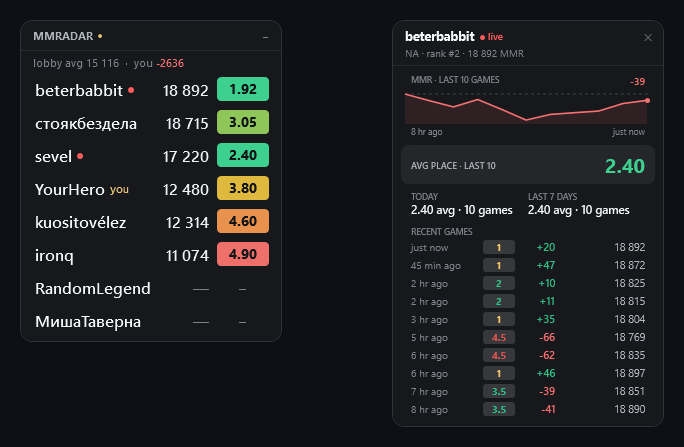
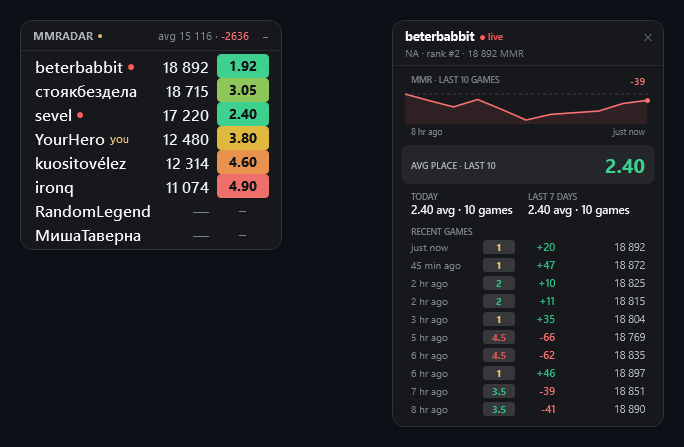
BGRank-density layout: 24px rows, lobby average moved into the header

diff --git a/src/MMRadar/UI/LobbyPanel.xaml b/src/MMRadar/UI/LobbyPanel.xaml
@@ -16,7 +16,7 @@
             </ResourceDictionary.MergedDictionaries>
             <sys:Double x:Key="RowFontSize">16</sys:Double>
             <sys:Double x:Key="ChipFontSize">13.5</sys:Double>
-            <sys:Double x:Key="RowHeight">33</sys:Double>
+            <sys:Double x:Key="RowHeight">24</sys:Double>
             <sys:Double x:Key="NameMaxWidth">150</sys:Double>
             <sys:Double x:Key="BadgeFontSize">10.5</sys:Double>
             <sys:Double x:Key="MarkFontSize">12</sys:Double>
@@ -65,6 +65,12 @@
                             Style="{StaticResource IconButton}"
                             Content="–" Click="CollapseButton_Click"
                             ToolTip="Collapse into a small pill"/>
+                    <!-- lobby average + your delta live in the header to save a row -->
+                    <TextBlock x:Name="HeaderContextText" DockPanel.Dock="Right"
+                               FontSize="{DynamicResource CtxFontSize}"
+                               Foreground="{DynamicResource TextMuted}"
+                               VerticalAlignment="Center" Margin="0,0,8,0"
+                               Visibility="Collapsed"/>
                 </DockPanel>
             </Border>
 
@@ -77,14 +83,7 @@
                            Text="Waiting for lobby…"
                            Visibility="Collapsed"/>
 
-                <!-- One-line lobby context: average strength and your delta to it -->
-                <TextBlock x:Name="LobbyContextText"
-                           Margin="12,5,12,0"
-                           FontSize="{DynamicResource CtxFontSize}"
-                           Foreground="{DynamicResource TextMuted}"
-                           Visibility="Collapsed"/>
-
-                <ItemsControl x:Name="RowsControl" Margin="0,4" Grid.IsSharedSizeScope="True">
+                <ItemsControl x:Name="RowsControl" Margin="0,3" Grid.IsSharedSizeScope="True">
                     <ItemsControl.ItemTemplate>
                         <DataTemplate>
                             <Button Style="{StaticResource RowButton}"

diff --git a/src/MMRadar/UI/LobbyPanel.xaml.cs b/src/MMRadar/UI/LobbyPanel.xaml.cs
@@ -55,7 +55,7 @@ namespace MMRadar.UI
             var k = _layoutScale;
             Resources["RowFontSize"] = 16.0 * k;
             Resources["ChipFontSize"] = 13.5 * k;
-            Resources["RowHeight"] = 33.0 * k;
+            Resources["RowHeight"] = 24.0 * k;
             Resources["NameMaxWidth"] = 150.0 * k;
             Resources["BadgeFontSize"] = 10.5 * k;
             Resources["MarkFontSize"] = 12.0 * k;
@@ -112,6 +112,9 @@ namespace MMRadar.UI
             Body.Visibility = _collapsed ? Visibility.Collapsed : Visibility.Visible;
             TitleRankPart.Visibility = _collapsed ? Visibility.Collapsed : Visibility.Visible;
             CollapseButton.Visibility = _collapsed ? Visibility.Collapsed : Visibility.Visible;
+            HeaderContextText.Visibility = !_collapsed && _hasLobbyContext
+                ? Visibility.Visible
+                : Visibility.Collapsed;
             RootBorder.MinWidth = _collapsed ? 0 : 192.0 * _layoutScale;
             Header.Cursor = _collapsed ? Cursors.Hand : Cursors.SizeAll;
             Header.ToolTip = _collapsed ? "Click to expand · drag to move" : null;
@@ -128,14 +131,14 @@ namespace MMRadar.UI
         public void ShowWaiting()
         {
             RowsControl.ItemsSource = _rows = new List<LobbyRowVm>();
-            LobbyContextText.Visibility = Visibility.Collapsed;
+            HeaderContextText.Visibility = Visibility.Collapsed;
             StatusText.Text = "Waiting for lobby…";
             StatusText.Visibility = Visibility.Visible;
         }
 
         public void ShowLoading(IReadOnlyList<LobbyPlayerInfo> players)
         {
-            LobbyContextText.Visibility = Visibility.Collapsed;
+            HeaderContextText.Visibility = Visibility.Collapsed;
             StatusText.Text = "Loading wallii.gg stats…";
             StatusText.Visibility = Visibility.Visible;
             _rows = players
@@ -165,7 +168,9 @@ namespace MMRadar.UI
             UpdateLobbyContext(summaries);
         }
 
-        /// <summary>One-line summary: average lobby rating and your delta to it.</summary>
+        private bool _hasLobbyContext;
+
+        /// <summary>Header summary: average lobby rating and your delta to it.</summary>
         private void UpdateLobbyContext(IReadOnlyList<PlayerSummary> summaries)
         {
             // Players confirmed below the leaderboard cutoff count as 8000 — an upper
@@ -176,34 +181,38 @@ namespace MMRadar.UI
             var known = summaries.Select(RatingOf).Where(r => r != null).Select(r => r.Value).ToList();
             if (known.Count < 2)
             {
-                LobbyContextText.Visibility = Visibility.Collapsed;
+                _hasLobbyContext = false;
+                HeaderContextText.Visibility = Visibility.Collapsed;
                 return;
             }
 
             var approximate = summaries.Any(s => s.BelowCutoff);
             var avg = (int)Math.Round(known.Average());
-            LobbyContextText.Inlines.Clear();
-            LobbyContextText.Inlines.Add(new System.Windows.Documents.Run(
-                $"lobby avg {(approximate ? "~" : "")}{UiHelpers.FormatRating(avg)}"));
-            LobbyContextText.ToolTip = approximate
-                ? "Players below the leaderboard cutoff are counted as 8 000"
-                : null;
+            HeaderContextText.Inlines.Clear();
+            HeaderContextText.Inlines.Add(new System.Windows.Documents.Run(
+                $"avg {(approximate ? "~" : "")}{UiHelpers.FormatRating(avg)}"));
+            HeaderContextText.ToolTip = "Average lobby rating" + (approximate
+                ? " (players below the leaderboard cutoff are counted as 8 000)"
+                : "");
 
             var local = summaries.FirstOrDefault(s => s.IsLocalPlayer);
             var localRating = local != null ? RatingOf(local) : null;
             if (localRating != null)
             {
                 var delta = localRating.Value - avg;
-                LobbyContextText.Inlines.Add(new System.Windows.Documents.Run("  ·  you "));
-                LobbyContextText.Inlines.Add(new System.Windows.Documents.Run(UiHelpers.FormatDelta(delta))
+                HeaderContextText.Inlines.Add(new System.Windows.Documents.Run(" · "));
+                HeaderContextText.Inlines.Add(new System.Windows.Documents.Run(UiHelpers.FormatDelta(delta))
                 {
                     Foreground = delta >= 0
                         ? UiHelpers.PlacementBrush(2)
                         : ThemeManager.Freeze(System.Windows.Media.Color.FromArgb(0xFF, 0xF8, 0x71, 0x71)),
                     FontWeight = FontWeights.SemiBold,
                 });
+                HeaderContextText.ToolTip += " · your delta to it";
             }
-            LobbyContextText.Visibility = Visibility.Visible;
+            _hasLobbyContext = true;
+            if (!IsCollapsed)
+                HeaderContextText.Visibility = Visibility.Visible;
         }
 
         public void SetStatus(string message)
